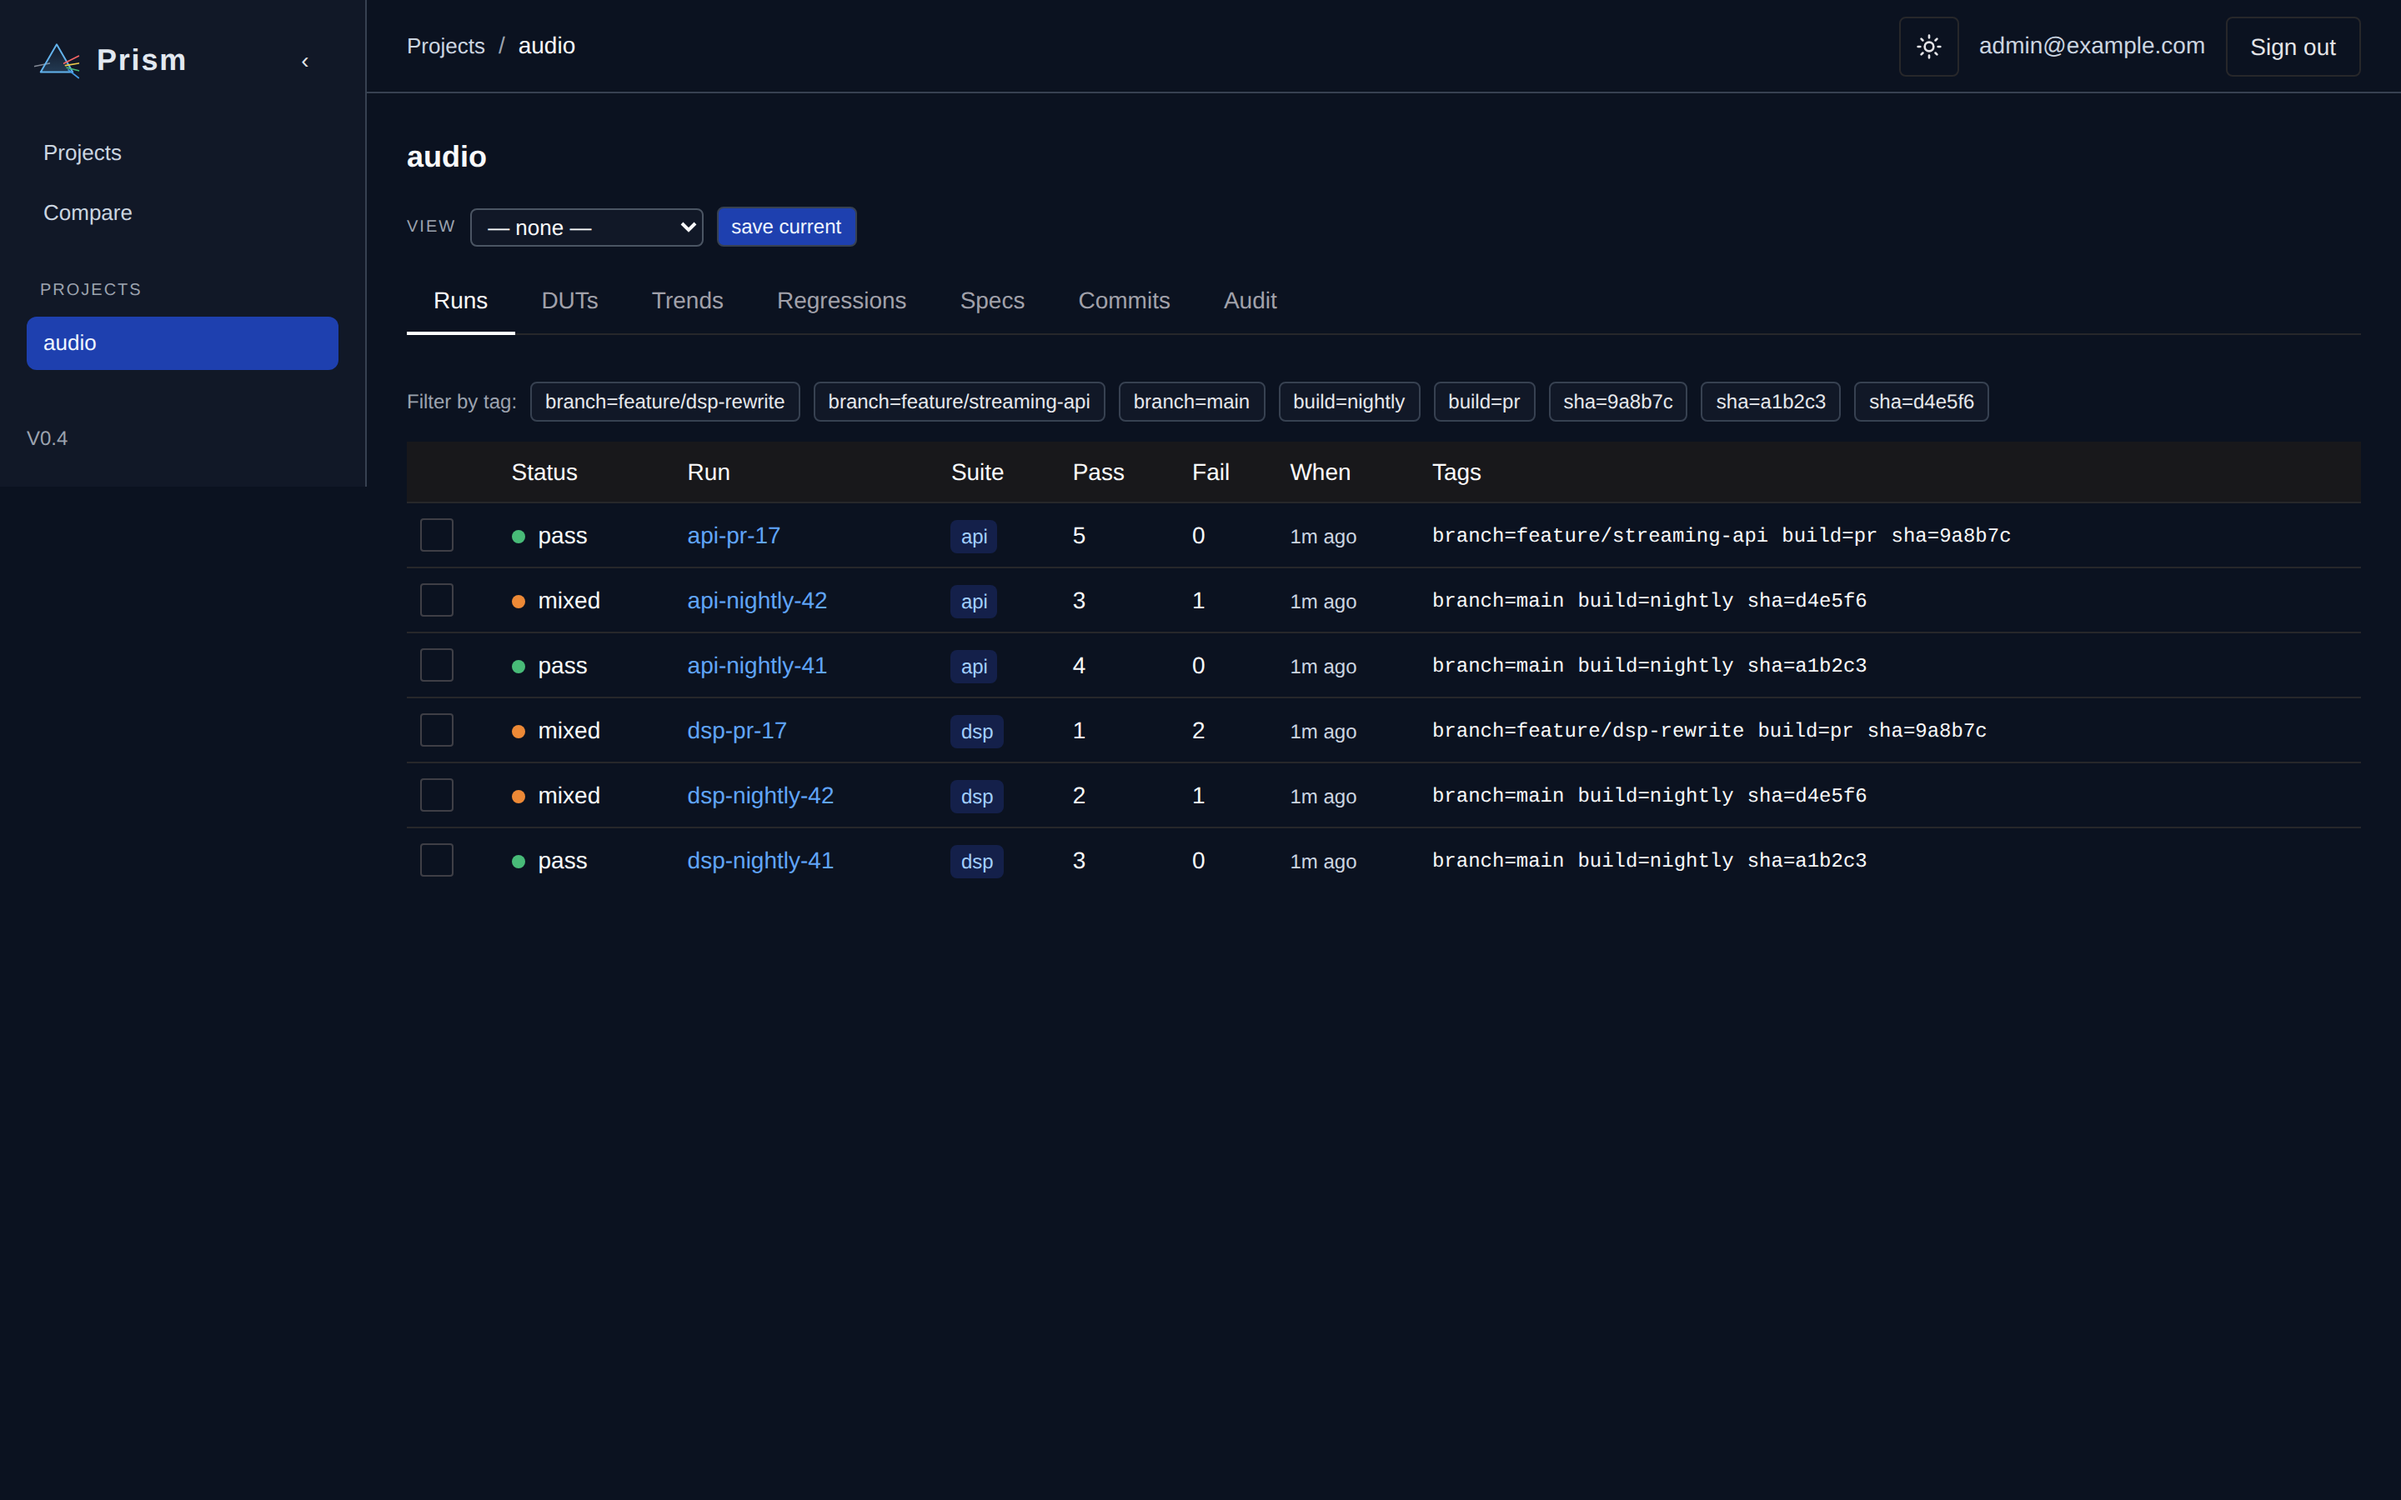
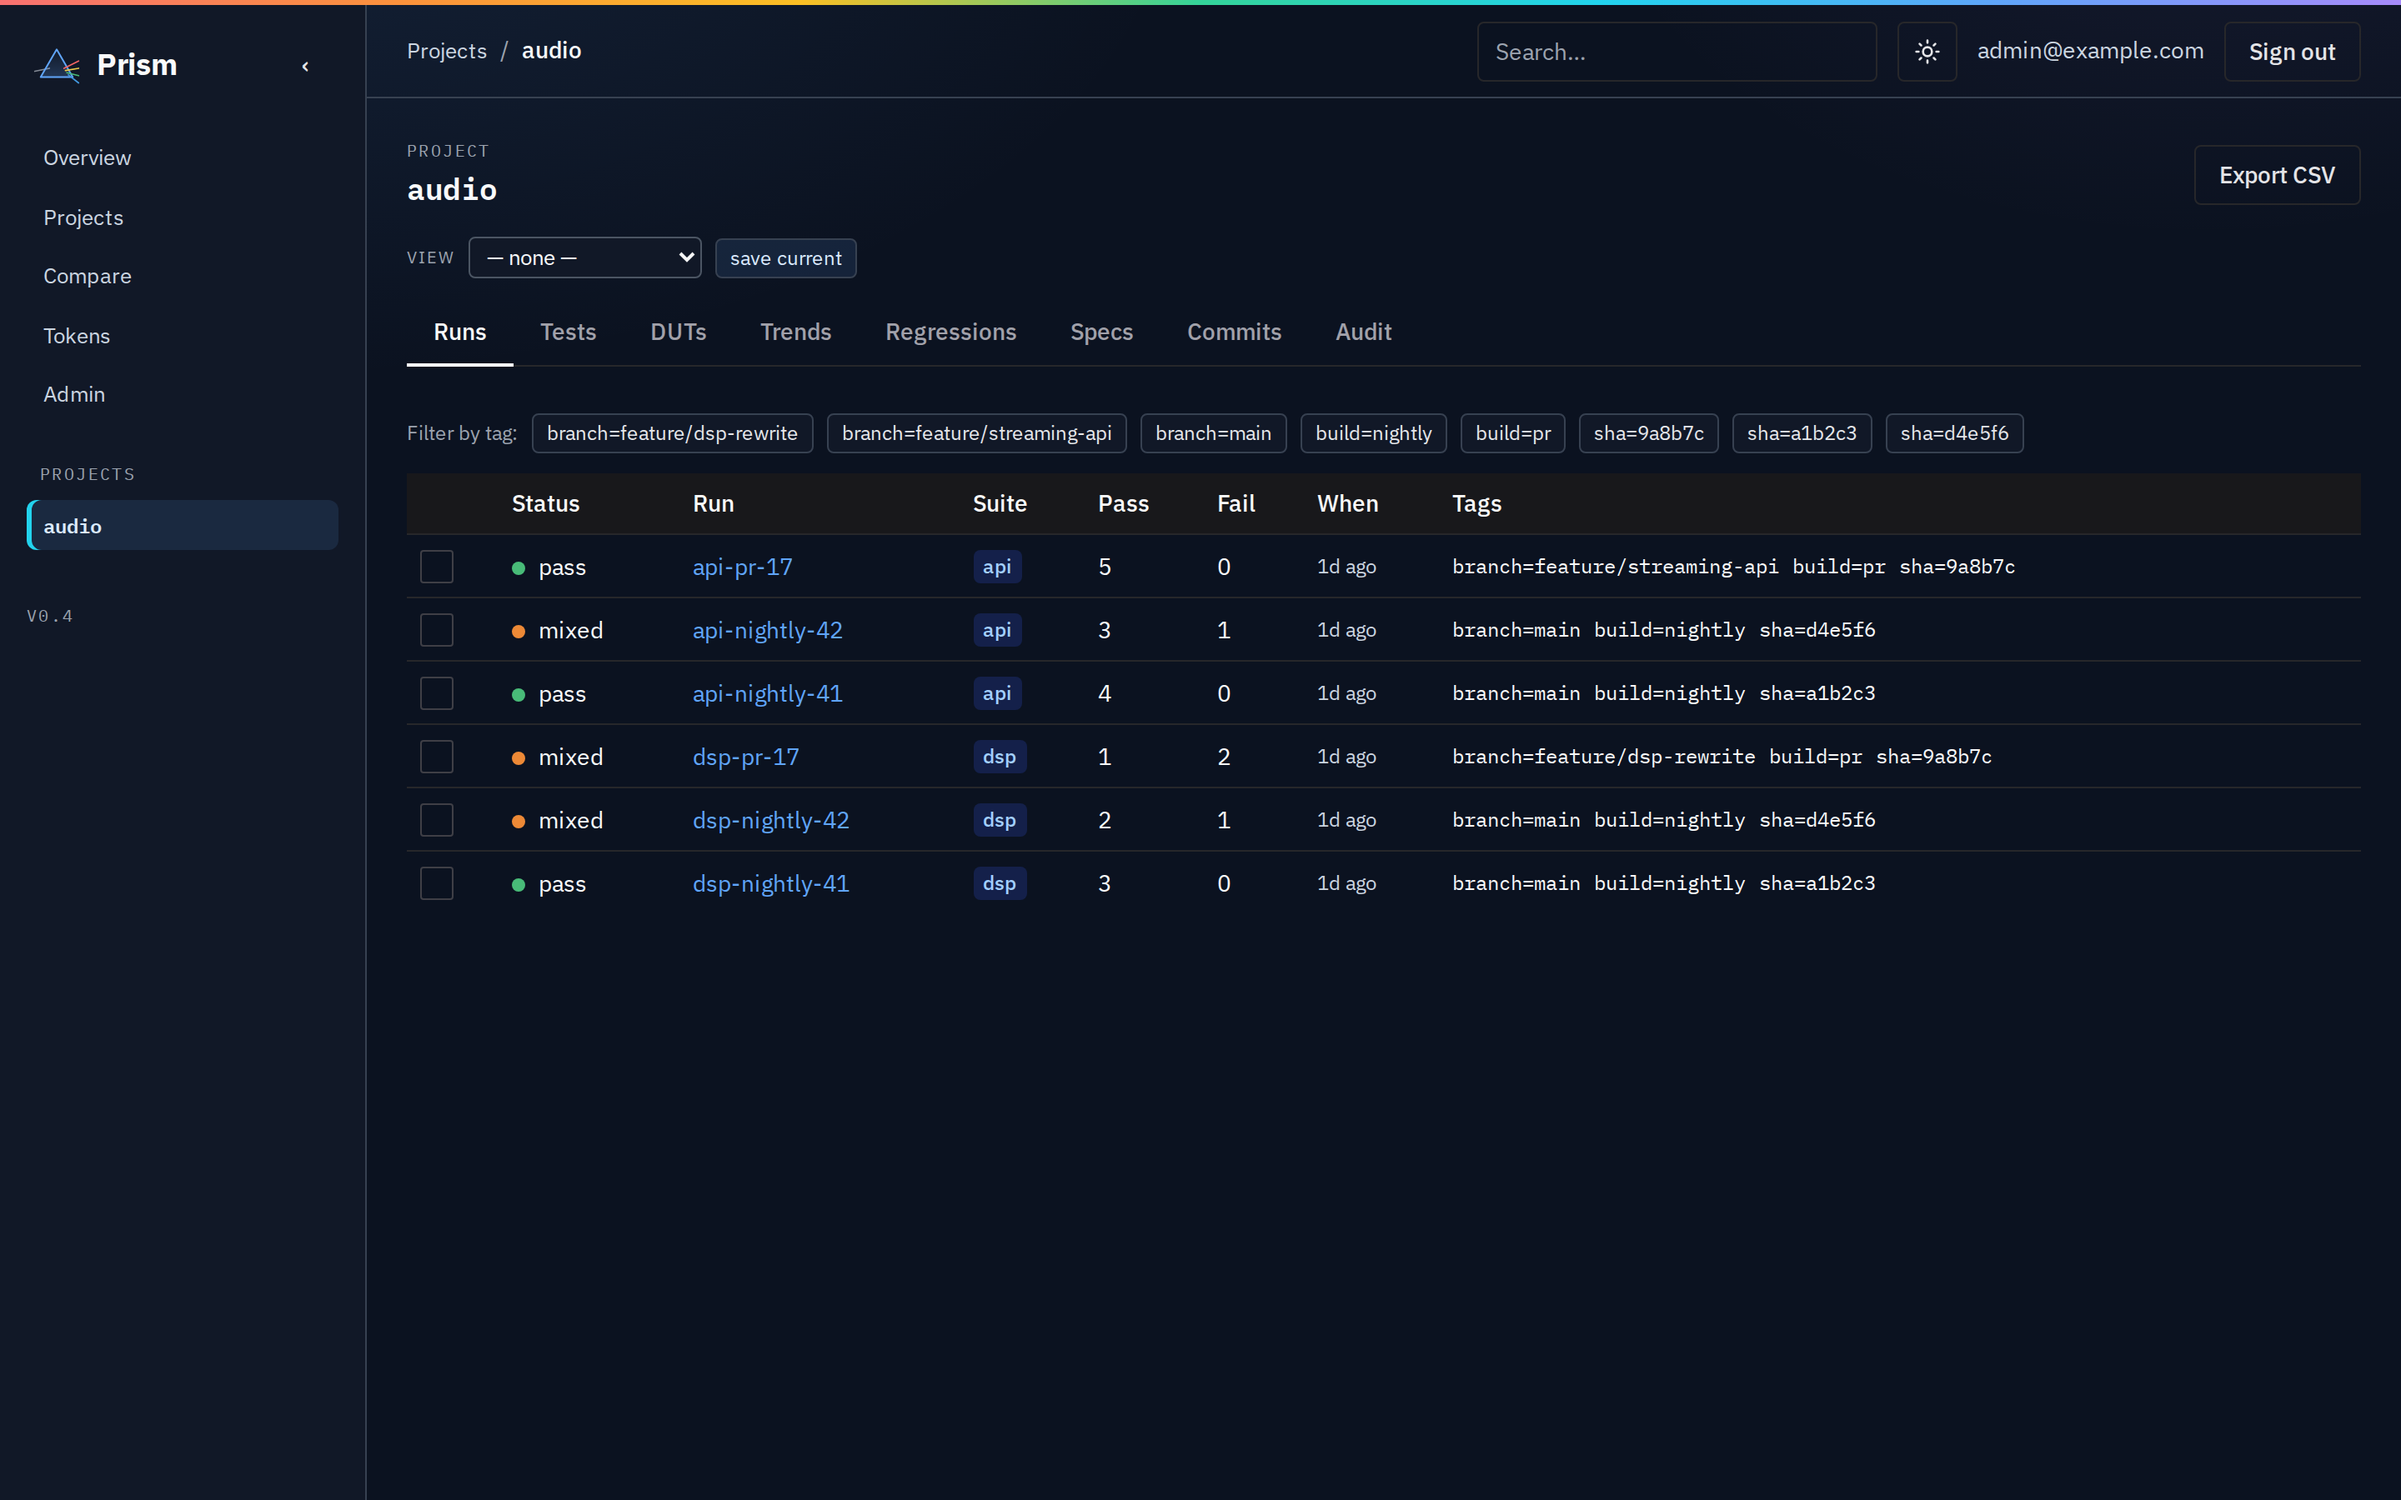
docs: export/report guide + refreshed screenshots
- New how-to 'Export results (CSV & PDF)' covering the project CSV export and
  the three PDF reports (per-run compliance with its test-cases table, combined
  test-results, and comparison), with the endpoint reference.
- rest-api reference: add the combined (/runs/report.pdf) and comparison
  (/compare/report.pdf) report endpoints, note the per-run PDF now lists test
  cases, and document the admin endpoints (incl. project delete).
- shots.py: login now lands on the Overview page; capture new 'overview' and
  'export-actions' shots; regenerate all screenshots against the redesigned
  (precision-instrument) UI. Add the Overview shot to getting-started.

diff --git a/docs/shots.py b/docs/shots.py
@@ -75,11 +75,16 @@ def main() -> int:
         page.wait_for_timeout(500)
         shot(page, "login")
 
-        # authenticate
+        # authenticate — login lands on the Overview landing page
         page.fill('input[type="email"]', EMAIL)
         page.fill('input[type="password"]', PASSWORD)
         page.click('button[type="submit"]')
-        page.wait_for_url("**/projects", timeout=15000)
+        page.get_by_role("heading", name="Overview").wait_for(timeout=15000)
+        page.wait_for_timeout(1000)
+        shot(page, "overview")
+
+        # --- projects list ---
+        page.goto(f"{BASE}/projects", wait_until="networkidle")
         page.wait_for_timeout(800)
         shot(page, "projects")
 
@@ -87,6 +92,16 @@ def main() -> int:
         page.goto(f"{BASE}/projects/{PROJECT}", wait_until="networkidle")
         page.wait_for_timeout(1500)
         shot(page, "dashboard")
+
+        # --- export actions: select two runs to reveal Export PDF / Compare ---
+        rows = page.locator("tbody tr")
+        if rows.count() >= 2:
+            for i in (0, 1):
+                box = rows.nth(i).locator('label[data-scope="checkbox"]')
+                if box.count() > 0:
+                    box.click()
+            page.wait_for_timeout(600)
+            shot(page, "export-actions")
 
         # --- run detail with waveform plot ---
         page.goto(f"{BASE}/runs/{run_id}", wait_until="networkidle")

diff --git a/docs/source/how-to/export-reports.md b/docs/source/how-to/export-reports.md
@@ -1,0 +1,48 @@
+# Export results (CSV & PDF)
+
+Prism can export test results as a **CSV** spreadsheet or as **PDF reports**.
+All exports are plain authenticated `GET` downloads, so the buttons are ordinary
+download links — nothing is uploaded or changed.
+
+## CSV export (whole project)
+
+On a project dashboard, click **Export CSV** (top right). You get one row per
+test case across every run in the project, left-joined to its measurements, so
+cases without measurements still appear:
+
+```text
+run_name,run_status,created_at,suite,classname,case_name,case_status,
+duration_ms,measurement,value,unit,spec_min,spec_max
+```
+
+Endpoint: `GET /api/v1/projects/{slug}/export.csv`.
+
+## PDF reports
+
+Select runs on the dashboard with the row checkboxes — an **Export PDF** action
+appears (and **Compare** once two or more are selected):
+
+```{image} ../_static/img/screenshots/export-actions.png
+:alt: Selecting runs reveals Export PDF and Compare actions
+:width: 100%
+```
+
+There are three PDF reports, each suited to a different question:
+
+| Report | Where | Contents |
+|---|---|---|
+| **Per-run compliance** | Run detail → *Download compliance PDF*, or select **one** run → *Export PDF* | Run metadata + tags, a **table of every test case** (suite / case / status), the measurements table (value, limits, margin, pass/fail), and the source JUnit SHA-256. |
+| **Combined test results** | Select **one or more** runs on the dashboard → *Export PDF* | A runs summary plus flat tables of **all test cases** and **all measurements** across the selected runs, each with a *Run* column. A consolidated report — not a comparison. |
+| **Comparison** | Compare page → *Export PDF* | The Compare view as a PDF: per-run columns with a first→last pass-rate delta, a measurement matrix with deltas, and a per-case status matrix. |
+
+Endpoints (all `GET`, authenticated, no CSRF — they download in place):
+
+| Method & path | Report |
+|---|---|
+| `GET /api/v1/runs/{id}/report.pdf` | Per-run compliance |
+| `GET /api/v1/runs/report.pdf?runs=a,b,…` | Combined test results |
+| `GET /api/v1/compare/report.pdf?runs=a,b,…` | Comparison |
+
+The `runs=` reports accept a comma-separated list of run ids (the dashboard fills
+this in from your selection); they reject an empty list and cap the number of
+runs, and return 404 if any id is unknown.

diff --git a/docs/source/reference/rest-api.md b/docs/source/reference/rest-api.md
@@ -40,7 +40,8 @@ header `X-Prism-Csrf` echoing the `prism_csrf` cookie set at login — see
 | `GET /api/v1/runs?project=&status=&limit=` | Paginated list |
 | `POST /api/v1/runs` | Multipart upload (CSRF-protected) |
 | `GET /api/v1/runs/{id}` | Detail with suites |
-| `GET /api/v1/runs/{id}/report.pdf` | Per-run compliance PDF |
+| `GET /api/v1/runs/{id}/report.pdf` | Per-run compliance PDF (test cases + measurements) |
+| `GET /api/v1/runs/report.pdf?runs=a,b,…` | Combined test-results PDF for the given runs |
 
 ## Suites & cases
 
@@ -63,9 +64,23 @@ header `X-Prism-Csrf` echoing the `prism_csrf` cookie set at login — see
 | Method & path | Purpose |
 |---|---|
 | `POST /api/v1/compare` | Body `{run_ids: [a, b, …]}` (CSRF-protected) |
+| `GET /api/v1/compare/report.pdf?runs=a,b,…` | Comparison report as a PDF |
 
 ## Search
 
 | Method & path | Purpose |
 |---|---|
 | `GET /api/v1/search?q=` | Global search across projects, runs, cases, and commits (min. 2 chars; capped per kind) |
+
+## Admin
+
+Admin-only (`require_admin`). See {doc}`../how-to/admin-panel`.
+
+| Method & path | Purpose |
+|---|---|
+| `GET /api/v1/admin/accounts` | List user accounts |
+| `GET /api/v1/admin/projects` | Projects with run counts |
+| `DELETE /api/v1/admin/projects/{slug}` | Permanently delete a project + all its runs/artifacts (CSRF-protected) |
+| `GET /api/v1/admin/backups` | Recent backup manifests |
+| `GET /api/v1/admin/activity` | Global audit feed |
+| `GET /api/v1/admin/logs?service=` | Recent container logs |

diff --git a/docs/source/tutorials/getting-started.md b/docs/source/tutorials/getting-started.md
@@ -59,6 +59,16 @@ PRISM_EMAIL=admin@example.com PRISM_PASSWORD='<your password>' \
   python3 scripts/seed_demo.py --reset
 ```
 
+After logging in you land on the **Overview**: instance-wide stats, a 30-day
+activity chart, and the most recent runs.
+
+```{image} ../_static/img/screenshots/overview.png
+:alt: The Prism overview landing page with stats, activity chart and recent runs
+:class: prism-shot
+:align: center
+:width: 720px
+```
+
 Refresh the **Projects** page and you'll see an `audio` project appear.
 
 ```{image} ../_static/img/screenshots/projects.png

diff --git a/docs/source/how-to/index.md b/docs/source/how-to/index.md
@@ -12,6 +12,7 @@ concrete problem.
 ci-integration
 record-measurements
 compare-runs
+export-reports
 upload-raw-http
 configure-ldap
 configure-backups
